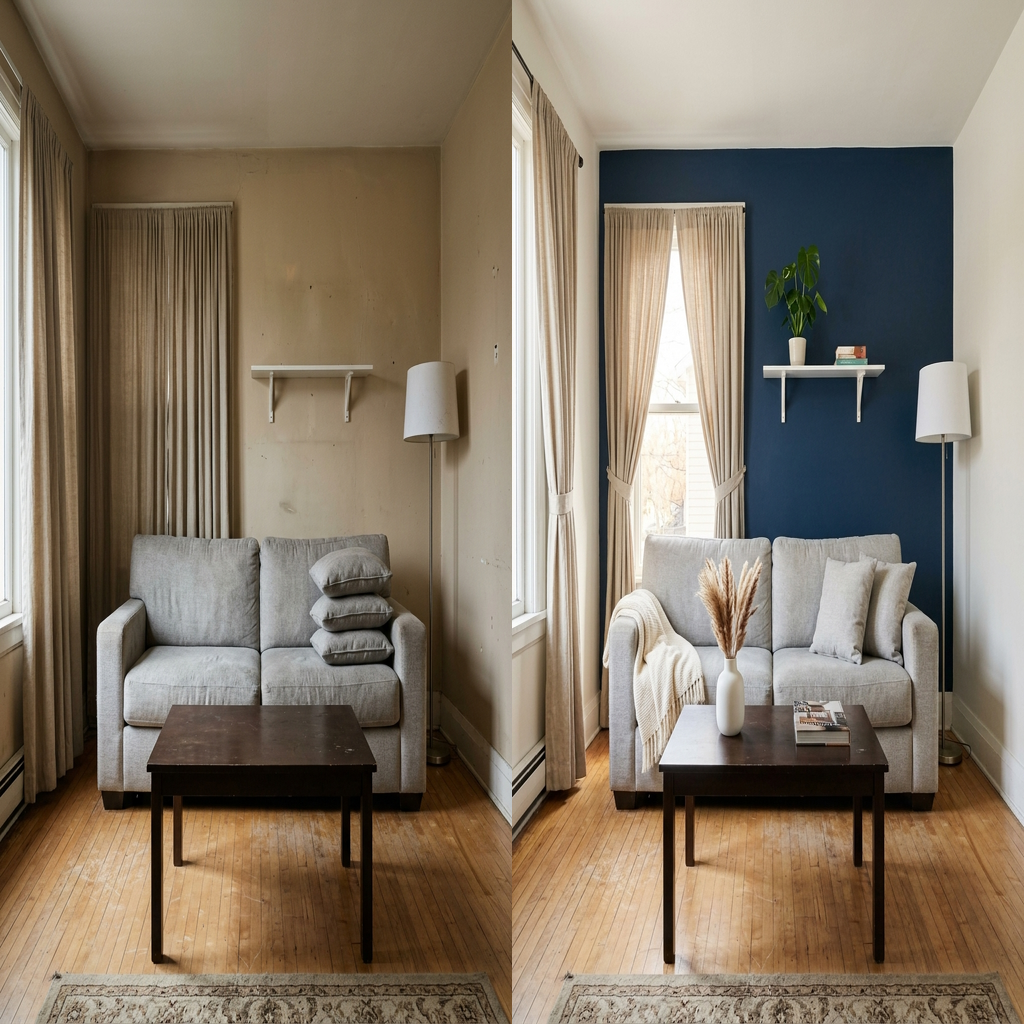
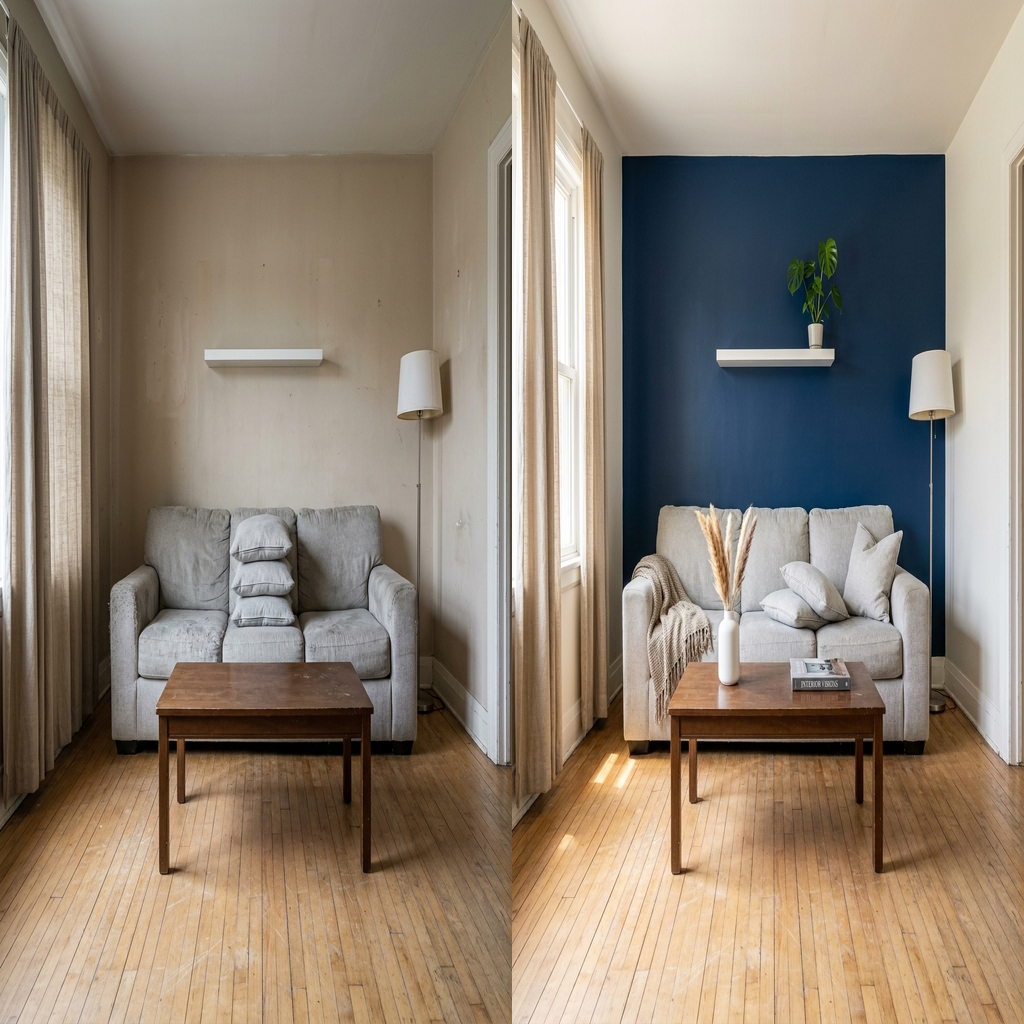
feat: hero con APRES grande y miniatura AVANT en esquina
- APRES se muestra a pantalla completa (aspect-ratio 4/5)
- AVANT aparece como thumbnail flotante en esquina inferior izquierda
- grid da mas espacio al lado de la imagen (1fr 1.1fr)
- gen_hero2.py guarda avant/apres por separado ademas del composite

diff --git a/assets/styles.css b/assets/styles.css
@@ -53,7 +53,7 @@ img { max-width: 100%; height: auto; display: block; }
 
 .hero { position: relative; overflow: hidden; padding: 78px 0 48px; }
 .hero:before { content: ""; position: absolute; inset: -140px -120px auto auto; width: 430px; height: 430px; background: radial-gradient(circle, rgba(200,16,46,.18), transparent 65%); pointer-events: none; }
-.hero-grid { display: grid; grid-template-columns: 1.04fr .96fr; gap: 48px; align-items: center; }
+.hero-grid { display: grid; grid-template-columns: 1fr 1.1fr; gap: 48px; align-items: center; }
 .eyebrow { display: inline-flex; gap: 8px; align-items: center; color: var(--red); background: var(--red-soft); border: 1px solid rgba(200,16,46,.12); border-radius: 999px; padding: 7px 12px; font-weight: 900; font-size: .86rem; }
 h1, h2, h3 { line-height: 1.08; letter-spacing: -.045em; margin: 0 0 18px; }
 h1 { font-size: clamp(2.55rem, 6vw, 5.4rem); }
@@ -67,7 +67,11 @@ p { margin: 0 0 18px; }
 .trust-card strong { display: block; color: var(--red-dark); font-size: 1.05rem; }
 .hero-card { background: #fff; border: 1px solid var(--line); border-radius: 34px; padding: 16px; box-shadow: var(--shadow); position: relative; animation: floatIn .8s ease both; }
 .hero-card .badge { position: absolute; left: 28px; top: 28px; z-index: 2; background: #fff; border-radius: 999px; padding: 9px 13px; font-weight: 900; color: var(--red-dark); box-shadow: 0 12px 24px rgba(0,0,0,.12); }
-.hero-visual { border-radius: 26px; overflow: hidden; background: #f4f4f4; border: 1px solid var(--line); }
+.hero-visual { border-radius: 26px; overflow: hidden; background: #f4f4f4; border: 1px solid var(--line); width: 100%; height: auto; display: block; aspect-ratio: 4/5; object-fit: cover; }
+.hero-ba { position: relative; display: block; }
+.hero-avant-wrap { position: absolute; bottom: 14px; left: 14px; border-radius: 14px; overflow: hidden; border: 3px solid #fff; box-shadow: 0 8px 28px rgba(0,0,0,.28); width: 22%; cursor: default; }
+.hero-avant-label { display: block; background: rgba(0,0,0,.52); color: #fff; font-size: .72rem; font-weight: 800; text-align: center; padding: 4px 0; letter-spacing: .04em; text-transform: uppercase; }
+.hero-avant-img { width: 100%; height: auto; display: block; }
 .paint-strip { height: 12px; background: linear-gradient(90deg, var(--red-dark), var(--red), #ff7d8b); border-radius: 999px; margin-top: 14px; }
 
 section { padding: 78px 0; }

diff --git a/index.html b/index.html
@@ -51,8 +51,14 @@
           <div class="trust-row"><div class="trust-card"><strong>Local</strong>Terrebonne, Mascouche, Repentigny</div><div class="trust-card"><strong>Propre</strong>Protection, sablage, lignes nettes</div><div class="trust-card"><strong>Rapide</strong>Reponse claire et estimation detaillee</div></div>
         </div>
         <div class="hero-card">
-          <span class="badge">Avant / Apres</span>
-          <img class="hero-visual" src="public/realisations/terrebonne-sejour-before-after.png" alt="Peinture interieure Terrebonne avant apres sejour transforme par peintres professionnels" width="1024" height="1024" fetchpriority="high">
+          <div class="hero-ba">
+            <span class="badge">Après</span>
+            <img class="hero-visual" src="public/realisations/terrebonne-sejour-apres.png" alt="Sejour repeint par peintres professionnels a Terrebonne, accent bleu marine" width="1024" height="1024" fetchpriority="high">
+            <div class="hero-avant-wrap">
+              <span class="hero-avant-label">Avant</span>
+              <img class="hero-avant-img" src="public/realisations/terrebonne-sejour-avant.png" alt="Avant peinture interieure Terrebonne" width="200" height="200" loading="lazy">
+            </div>
+          </div>
           <div class="paint-strip" aria-hidden="true"></div>
         </div>
       </div>

diff --git a/gen_hero2.py b/gen_hero2.py
@@ -120,12 +120,15 @@ def combinar_lado_a_lado(img_avant: Image.Image, img_apres: Image.Image, size: i
     return composite
 
 
+AVANT_PATH = Path(__file__).parent / "public" / "realisations" / "terrebonne-sejour-avant.png"
+APRES_PATH = Path(__file__).parent / "public" / "realisations" / "terrebonne-sejour-apres.png"
+
+
 def main():
     print("=" * 55)
     print("  Peinture Terrebonne - Nueva imagen hero")
     print(f"  Modelo : {MODEL}")
     print(f"  Metodo : AVANT texto -> APRES [img+texto] (v3)")
-    print(f"  Destino: {OUTPUT_PATH}")
     print("=" * 55)
 
     img_avant = generar_avant(PROMPT_AVANT)
@@ -138,10 +141,14 @@ def main():
         print("FALLO: no se pudo generar APRES")
         sys.exit(1)
 
-    composite = combinar_lado_a_lado(img_avant, img_apres, size=1024)
     OUTPUT_PATH.parent.mkdir(parents=True, exist_ok=True)
+    img_avant.save(AVANT_PATH, "PNG", optimize=True)
+    img_apres.save(APRES_PATH, "PNG", optimize=True)
+    composite = combinar_lado_a_lado(img_avant, img_apres, size=1024)
     composite.save(OUTPUT_PATH, "PNG", optimize=True)
-    print(f"\n  Guardado: {OUTPUT_PATH}")
+    print(f"\n  Avant  : {AVANT_PATH}")
+    print(f"  Apres  : {APRES_PATH}")
+    print(f"  Composite: {OUTPUT_PATH}")
     print("=" * 55)
 
 
